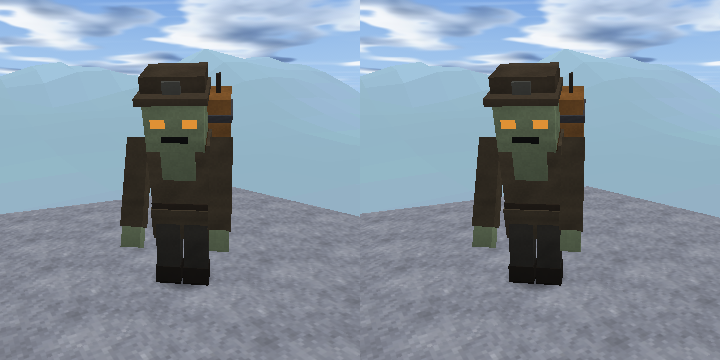
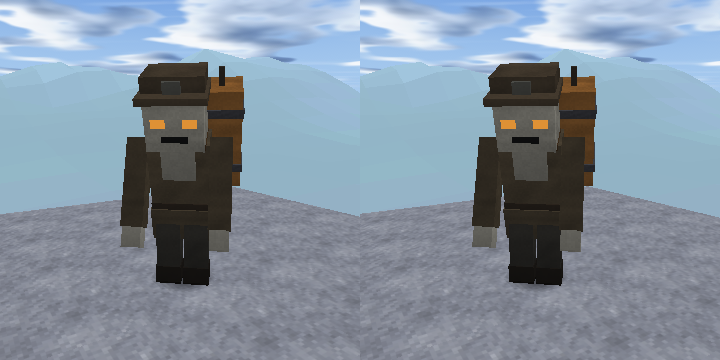
Powderwight: review fixes (forced test state, soaked timer, bigger keg and glowing hoops, Damp Squib advancement, renamed commands)
Claude-Session: https://claude.ai/code/session_01YJGoYow1UijYySgLSrD9Pa

Changed region(s): [[0.7639, 0.1833, 0.8556, 0.5194], [0.275, 0.1833, 0.3361, 0.5194]]

diff --git a/Sources/Mob.swift b/Sources/Mob.swift
@@ -292,7 +292,7 @@ final class Mob {
     var callTimer: Float
     var attackCooldown: Float = 0
     var fuse: Float = 0             // hisser
-    var flinch: Float = 0           // powderwight: a hit stops the fuse this long
+    var flinch: Float = 0           // powderwight: a hit stops the fuse this long (internal key creeper)
     var soaked: Float = 0           // powderwight: seconds until a doused fuse can be struck again
     var fire: Float = 0             // seconds left burning
     var fireTick: Float = 0
@@ -459,12 +459,12 @@ final class Mob {
         return pos + V3(0, 22.0 / 16 * scale, 0) + forward * 0.5 * scale + r * 0.31 * scale
     }
     static let bowKinds: Set<MobKind> = [.skeleton, .stray, .parched, .bogged]
-    // Where the Powderwight's fuse burns, in the world: the spark part's centre (model -4.8, 29.2, 5.5) after the hunch
+    // Where the Powderwight's fuse burns, in the world: the spark part's centre (model -5.2, 30.35, 5.7) after the hunch
     // of a lit one (-0.55 about the hip) and the body yaw, as writeMobVertices places it.
     var kegSpark: V3 {
         let h: Float = -0.55, cx = cosf(h), sx = sinf(h)
-        let y: Float = 29.2 - 12, z: Float = 5.5
-        let q = V3(-4.8, 12 + y * cx - z * sx, y * sx + z * cx) * (scale / 16)
+        let y: Float = 30.35 - 12, z: Float = 5.7
+        let q = V3(-5.2, 12 + y * cx - z * sx, y * sx + z * cx) * (scale / 16)
         let cy = cosf(yaw), sy = sinf(yaw)
         return pos + V3(cy * q.x + sy * q.z, q.y, -sy * q.x + cy * q.z)
     }
@@ -889,7 +889,10 @@ final class Mob {
                 // Powderwight counterplay (its own): water douses the fuse and a soaked one can't be struck (it
                 // wades on, harmless, until it dries); rain wets it, so the fuse burns slower.
                 if inWater && Blocks.fluidKind[Int(feetBlock)] == 1 {
-                    if fuse > 0 { g.sfx(.fizz, 0.8, at: pos) }
+                    if fuse > 0 {
+                        g.sfx(.fizz, 0.8, at: pos)
+                        if simd_length(pos - g.player.pos) < 16 { g.achieve("damp_squib") }
+                    }
                     fuse = 0
                     soaked = 4
                 }
@@ -916,7 +919,7 @@ final class Mob {
                     health = -1000
                     return
                 }
-            } else { fuse = max(0, fuse - dt); wander(); speed = moving ? spec.speed * 0.5 : 0 }
+            } else { fuse = max(0, fuse - dt); soaked = max(0, soaked - dt); wander(); speed = moving ? spec.speed * 0.5 : 0 }
         case .enderman:
             // Provoked by being looked at (in the face) or hit; teleports away from water.
             if !aggro && canTarget && dist < 64 && Items.key(g.inventory.armor[0].item) != "carved_pumpkin" {
@@ -1626,8 +1629,8 @@ private func parts(_ m: Mob) -> [Part] {
         let blink = lit && Int(m.fuse * 8) % 2 == 0
         let warm = V3(1.0, 0.82, 0.62)
         func t(_ c: V3) -> V3 { blink ? simd_mix(c, warm, V3(repeating: 0.6)) : c }
-        let skin = t(V3(0.47, 0.54, 0.41)), coat = t(V3(0.29, 0.25, 0.19)), pants = t(V3(0.2, 0.19, 0.17))
-        let boot = V3(0.13, 0.11, 0.09), wood = t(V3(0.52, 0.34, 0.16)), hoop = V3(0.22, 0.22, 0.24), cap = t(V3(0.26, 0.22, 0.17))
+        let skin = t(V3(0.58, 0.57, 0.53)), coat = t(V3(0.29, 0.25, 0.19)), pants = t(V3(0.2, 0.19, 0.17))
+        let boot = V3(0.13, 0.11, 0.09), wood = t(V3(0.52, 0.34, 0.16)), hoop = lit ? V3(1.0, 0.45, 0.15) * (0.7 + 0.5 * flick) : V3(0.22, 0.22, 0.24), cap = t(V3(0.26, 0.22, 0.17))
         let eyeK: Float = lit ? 1.25 : 0.9
         let amber = V3(0.95, 0.62, 0.22) * eyeK
         let hunch: Float = lit ? -0.55 : -0.4                     // leans in over its target once lit
@@ -1652,13 +1655,13 @@ private func parts(_ m: Mob) -> [Part] {
             tb(-3.6, 21.4, -2.7, 1, 0.8, 5.4, V3(0.24, 0.17, 0.1)), tb(2.6, 21.4, -2.7, 1, 0.8, 5.4, V3(0.24, 0.17, 0.1)),  // straps
             // The keg: slung high over the left shoulder so it shows beside the head from the front (an uneven, readable
             // silhouette); staves, two iron hoops, a fuse cord out of the bung.
-            tb(-6.5 - 0.5 * (sw - 1) * 8 + shake * 0.2, 14, 2.5, 8 * sw, 12, 6 * sw, wood, 4),
-            tb(-6.7 - 0.5 * (sw - 1) * 8, 16, 2.3, 8.4 * sw, 1, 6.4 * sw, hoop, 8),
-            tb(-6.7 - 0.5 * (sw - 1) * 8, 23, 2.3, 8.4 * sw, 1, 6.4 * sw, hoop, 8),
-            tb(-5.1, 26, 5.2, 0.6, 2.6, 0.6, V3(0.18, 0.15, 0.12)),
+            tb(-8 - 0.5 * (sw - 1) * 10 + shake * 0.2, 13, 2.5, 10 * sw, 14, 7 * sw, wood, 4),
+            tb(-8.2 - 0.5 * (sw - 1) * 10, 15.5, 2.3, 10.4 * sw, 1.2, 7.4 * sw, hoop, lit ? 9 : 8),   // hoops glow hot once lit
+            tb(-8.2 - 0.5 * (sw - 1) * 10, 23.5, 2.3, 10.4 * sw, 1.2, 7.4 * sw, hoop, lit ? 9 : 8),
+            tb(-5.6, 27, 5.2, 0.8, 2.4, 0.8, V3(0.18, 0.15, 0.12)),
         ]
         // The spark: only once the fuse is struck, bright and flickering (readable across a dark field).
-        if lit { p.append(tb(-5.9, 28.1, 4.4, 2.2, 2.2, 2.2, V3(1, 0.78, 0.3) * (0.75 + 0.6 * flick), 9)) }
+        if lit { p.append(tb(-6.85, 28.7, 4.05, 3.3, 3.3, 3.3, V3(1, 0.8, 0.32) * (0.8 + 0.6 * flick), 9)) }
         // Arms from the hunched shoulders: hang forward and swing; thrown up and trembling once lit.
         let sy = hip.y + 9 * cosf(hunch), sz = 9 * sinf(hunch)
         let armRot: Float = lit ? 2.3 + 0.12 * sinf(m.fuse * 47) : 0.35

diff --git a/quest/src/test/MobPortraits.swift b/quest/src/test/MobPortraits.swift
@@ -23,7 +23,9 @@ enum MobPortraits {
         defer { for (q, b) in restore { w.setBlock(q.x, q.y, q.z, b) } }
         for key in kinds {
             guard let k = MobKind.allCases.first(where: { $0.key == key }) else { print("mobshots: no kind \(key)"); continue }
-            for (tag, t, fuse) in [("day", 0.22, Float(0)), ("night", 0.75, Float(0)), ("lit", 0.22, Float(0.9))] {
+            // night20: the readability shot, 20 blocks off in the dark (backlog: hostile silhouettes read at 20 blocks).
+            for (tag, t, fuse, far) in [("day", 0.22, Float(0), Float(1)), ("night", 0.75, Float(0), Float(1)), ("lit", 0.22, Float(0.9), Float(1)),
+                                        ("night20", 0.75, Float(0), Float(6.5)), ("lit_night20", 0.75, Float(0.9), Float(6.5))] {
                 if fuse > 0 && k != .creeper { continue }
                 let m = Mob(k, at: V3(Float(pad.x) + 0.5, Float(pad.y + 1), Float(pad.z) + 0.5))
                 m.yaw = -0.22 * .pi                                       // three-quarter, face toward the camera
@@ -32,11 +34,11 @@ enum MobPortraits {
                 game.time = t * DAY_LENGTH
                 // Camera 3 blocks off toward -z / +x, eye a little above the mob's middle, looking at it.
                 let target = m.pos + V3(0, m.height * 0.55, 0)
-                let eye = target + V3(1.6, 0.5, -2.6) * max(1, m.height / 1.7)
+                let eye = target + V3(1.6, 0.5, -2.6) * max(1, m.height / 1.7) * far
                 p.pos = eye - V3(0, p.eyeHeight, 0)
                 let f = simd_normalize(target - eye)
                 try RenderTest.render(game: game, ctx: ctx, path: "\(dir)/mob_\(key)_\(tag).png", width: 360, height: 360,
-                                      yaw: atan2f(-f.x, -f.z), pitch: asinf(f.y), fovDeg: 55)
+                                      yaw: atan2f(-f.x, -f.z), pitch: asinf(f.y), fovDeg: far > 1 ? 40 : 55)
             }
         }
     }

diff --git a/quest/src/test/PowderwightTest.swift b/quest/src/test/PowderwightTest.swift
@@ -7,8 +7,18 @@ import simd
 enum PowderwightTest {
     static func run(game: Game, check: (Bool, String) -> Void) {
         let p = game.player
-        let saved = (p.pos, p.flying, game.weather, game.survival, game.health)
-        defer { (p.pos, p.flying, game.weather, game.survival, game.health) = saved }
+        let saved = (p.pos, p.flying, game.weather, game.survival, game.health, game.mobs.mobs, p.sneaking, game.inventory.armor[0], game.alive)
+        defer {
+            (p.pos, p.flying, game.weather, game.survival, game.health, game.mobs.mobs, p.sneaking, game.inventory.armor[0], game.alive) = saved
+            game.mobs.rebuildIndex()
+        }
+        // What the fuse rule senses, forced: a live, unhidden, standing player in plain sight with no cats about
+        // (invisibility is not set by any earlier check).
+        game.mobs.mobs = []; game.mobs.rebuildIndex()
+        p.sneaking = false
+        game.inventory.armor[0] = .empty
+        game.alive = true
+        game.health = 20
         p.flying = false
         let w = game.world
         // Name, save key, drops: the mob keeps its save key ("creeper"), so old saves' mobs load as Powderwights.

diff --git a/Sources/Advancements.swift b/Sources/Advancements.swift
@@ -75,6 +75,7 @@ enum Advancements {
         Advancement(id: "adventure/kill_a_mob", tab: 3, title: "Hunter", desc: "Kill any hostile monster", crit: .event("kill_hostile")),
         Advancement(id: "adventure/station_op", tab: 3, title: "Cold Run", desc: "Copy the codes, wreck the generator and get out of a Boreal Station", crit: .event("station_op")),
         Advancement(id: "adventure/station_silent", tab: 3, title: "Nobody Was Here", desc: "Finish a Boreal Station operation without setting off the alarm", crit: .event("station_silent"), challenge: true),
+        Advancement(id: "adventure/damp_squib", tab: 3, title: "Damp Squib", desc: "Put out a Powderwight's lit fuse with water", crit: .event("damp_squib")),
         Advancement(id: "adventure/trade", tab: 3, title: "Fair Deal", desc: "Successfully trade with a Townsperson", crit: .event("trade")),
         Advancement(id: "adventure/sleep_in_bed", tab: 3, title: "Good Night", desc: "Sleep in a bed to change your respawn point", crit: .event("sleep")),
         Advancement(id: "adventure/shoot_arrow", tab: 3, title: "Take Aim", desc: "Shoot something with an arrow", crit: .event("arrow_hit")),

diff --git a/Sources/main.swift b/Sources/main.swift
@@ -246,7 +246,7 @@ enum Snapshot {
             case "death":
                 game.openMenu(DeathMenu(game: game, message: "Player was blown up by Powderwight"))
             case "commands":
-                for c in ["/help", "/time set noon", "/give diamond sword 1", "/give hisser-head", "/locate sea temple", "/summon hisser", "hello", "/tp ~ ~2 ~", "/bogus", "/bases", "/rare"] { game.command(c) }
+                for c in ["/help", "/time set noon", "/give diamond sword 1", "/give powderwight-head", "/locate sea temple", "/summon powderwight", "hello", "/tp ~ ~2 ~", "/bogus", "/bases", "/rare"] { game.command(c) }
                 for l in game.commandLog { print("console: " + l) }
                 let m = CommandMenu(game: game, prefill: "/locate military")
                 print("console: suggestions " + m.suggestions.joined(separator: ", "))

diff --git a/Sources/Commands.swift b/Sources/Commands.swift
@@ -3,7 +3,7 @@ import simd
 
 // Command console (T or / on the keyboard, "Commands..." in the pause menu for a controller).
 // The usual cheat commands with the reference game's syntax; names accept both the internal keys
-// (diamond_sword, creeper) and Blocksmith display names (hisser, sea_temple).
+// (diamond_sword, creeper) and Blocksmith display names (powderwight, sea_temple).
 final class CommandMenu: Menu {
     var line = ""
     var historyPos = -1

diff --git a/docs/status/look-upgrade.md b/docs/status/look-upgrade.md
@@ -85,7 +85,7 @@ view without clouds, i.e. the Quest before this change).
   and a warm blink over its body.
 - **Counterplay**: hit it (a hit stops the fuse, as before), back off past 7 blocks or break line of sight, shoot it,
   or douse it: water puts the fuse out and a soaked Powderwight cannot strike again for 4 s; rain makes its fuse burn
-  slower (x0.7). Cats still scare it.
+  slower (x0.7). Cats still scare it. Putting a lit fuse out with water earns the "Damp Squib" advancement.
 - **Drops**: gunpowder 0-2 (unchanged; its keg). Head (by charged blast), banner pattern and music-disc rules unchanged.
 - **Saves**: the internal key stays `creeper`, so every existing save's mobs, heads, banners and stats load as the
   Powderwight with no migration; a pre-change mob record is decoded in the checks.
@@ -94,5 +94,12 @@ view without clouds, i.e. the Quest before this change).
 Name + key; an old save's record loads as a Powderwight; the lit fuse adds one bright emissive spark part; 1.7-block
 model height; strikes its fuse beside the player on dry ground; the fuse spits glowing sparks from the keg; a hit stops
 the fuse; water douses it and it stays out while soaked; once dry it strikes again. MobDrawTest still draws every kind.
-Portraits: `questcheck --render X --mob-shots DIR --mob-kinds creeper` (day, night, lit) in
-docs/status/evidence/look-upgrade/mob_creeper_*.png; mob_creeper_before.png is the Hisser.
+Portraits: `questcheck --render X --mob-shots DIR --mob-kinds creeper` (day, night, lit, and
+night20 / lit_night20 from 20 blocks at night) in docs/status/evidence/look-upgrade/mob_creeper_*.png;
+mob_creeper_before.png is the Hisser.
+
+Verifier pass (independent review): PASS with four defects, all fixed: the check now forces the state it depends on
+(no mobs, not sneaking, no head armour, alive) and restores it; the soaked timer also runs while the mob has no target;
+the keg was too small to read at range (now bigger, hoops glow amber and turn orange when lit, a bigger spark); the
+command script and snap.sh still used the old mob names. The 20-block night portraits show the amber eyes and the lit
+keg reading clearly.
